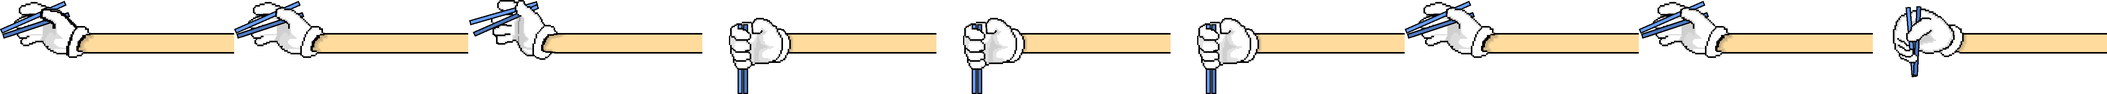
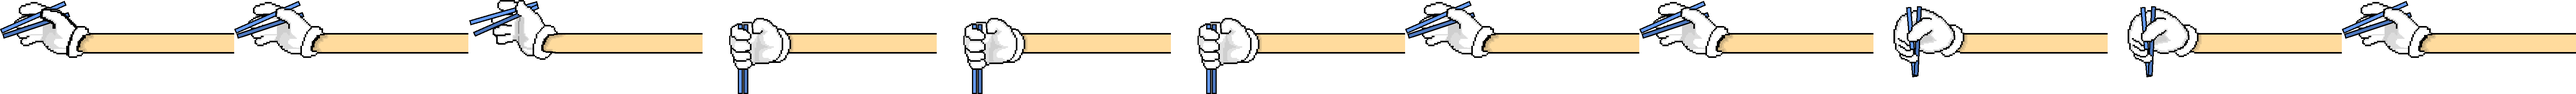
changes

diff --git a/js/main.js b/js/main.js
@@ -1199,7 +1199,7 @@ class EndStory extends CommonScene {
         pSpeed = platformSpeed;
         // for testing purposes
         // horizontalSpeed = testSpeed;
-        playBornX = 8800;
+        //playBornX = 8800;
         // hp = 50;
     }
     create(){
@@ -1219,7 +1219,7 @@ class EndStory extends CommonScene {
         super.create();
 
         nukes = this.physics.add.group({});
-        
+
         // level specific platforms
         this.makeMoveEnemy(i, 0, 850, 5000, 'knife');
 
@@ -1299,8 +1299,13 @@ class EndStory extends CommonScene {
             repeat: -1
         });
         this.anims.create({
-            key: 'shoot',
+            key: 'shoot_ready',
             frames: this.anims.generateFrameNumbers('final', { start: 7, end: 8 }),
+            frameRate: 8
+        });
+        this.anims.create({
+            key: 'shoot',
+            frames: this.anims.generateFrameNumbers('final', { start: 9, end: 10 }),
             frameRate: 8
         });
 
@@ -1421,7 +1426,7 @@ class EndStory extends CommonScene {
            });
            boss_music.play();
         }
-        
+
         //boss movement
         /*this.tweens.add({
             targets:  boss,
@@ -1431,7 +1436,7 @@ class EndStory extends CommonScene {
         if(player.x > 9000 && bossHP != 0 && hp >0){
             if(can_shoot_3 == true && canStab != false){
                 can_shoot_3 = false;
-                boss.anims.play('shoot', true);
+                boss.anims.play('shoot_ready', true);
                 let shootAttack = this.time.addEvent({ delay: 2000, callback: this.shootBullet, callbackScope: this});
             }else if(canStab == true && bossHP < 30){
                 canStab = false
@@ -1439,8 +1444,7 @@ class EndStory extends CommonScene {
                 let stabAttack = this.time.addEvent({ delay: 4500, callback: this.stab, callbackScope: this});
             }
         }
-
-        nukes.getChildren().map(nuke => nuke.rotation += Math.floor(Math.random() * 5)*0.01);
+        //nukes.getChildren().map(nuke => nuke.rotation += Math.floor(Math.random() * 5)*0.01);
     }
     setValue(bar, percent){
         this.tweens.add({
@@ -1459,6 +1463,7 @@ class EndStory extends CommonScene {
         bossbullet.setVelocityX(0);
         bossbullet.setVelocityY(0);
         let moveBullet = this.time.addEvent({ delay: 2000, callback: function(){
+            boss.anims.play('shoot', true);
             this.tweens.add({
                 targets:  bossbullet.body.velocity,
                 x: 500*Math.cos(bossplayerangle),
@@ -1468,6 +1473,11 @@ class EndStory extends CommonScene {
                 targets:  bossbullet.body.velocity,
                 y: 500*Math.sin(bossplayerangle),
                 duration: 200
+            });
+            this.tweens.add({
+                targets:  bossbullet,
+                rotation: Math.random() * (70 - 30) + 30,
+                duration: 10000
             });
           }, callbackScope: this});
         can_shoot_3 = true;
@@ -1500,25 +1510,27 @@ class EndStory extends CommonScene {
                 duration: 400
             });
         }, callbackScope: this});
-        let reset = this.time.addEvent({ delay: 1400, callback: function(){
+        let camerasShake = this.time.addEvent({delay:1100, callback: function(){
+          this.cameras.main.shake(200, 0.02);
+        }, callbackScope: this});
+        let reset = this.time.addEvent({ delay: 1600, callback: function(){
             this.tweens.add({
                 targets:  boss,
                 y: 300,
                 duration: 400
             });
         }, callbackScope: this});
-        // let Camerashake = this.time.addEvent({ delay: 1100, callback: function(){
-        //     this.camera.shake(0.05, 500);
-        // }, callbackScope: this});
         let resize = this.time.addEvent({ delay: 2200, callback: function(){
             boss.body.height = 150;
             boss.body.width = 150;
-        }, callbackScope: this}); 
+            boss.body.offset.x = 50;
+            boss.body.offset.y = 0;
+        }, callbackScope: this});
         canStab = true;
     }
 }
 
-    
+
 class GameMenu extends Phaser.Scene {
     preload(){
         this.load.image('background', 'assets/background/bg.png');
@@ -1577,7 +1589,7 @@ class GameMenu extends Phaser.Scene {
         // temp
         // winLevel2 = true;
         clickButtonEnd.visible = true;
-        
+
         // if(!winLevel2){
         //     clickButtonEnd.disableInteractive();
         //     clickButtonEnd.visible = false;
@@ -2039,8 +2051,8 @@ var config = {
           default: 'arcade',
           arcade: {
               gravity: {y:800},
-              debug: true
-              //debug: false
+              //debug: true
+              debug: false
           }
       },
     scene: [MainMenu], // starting with tutorial
